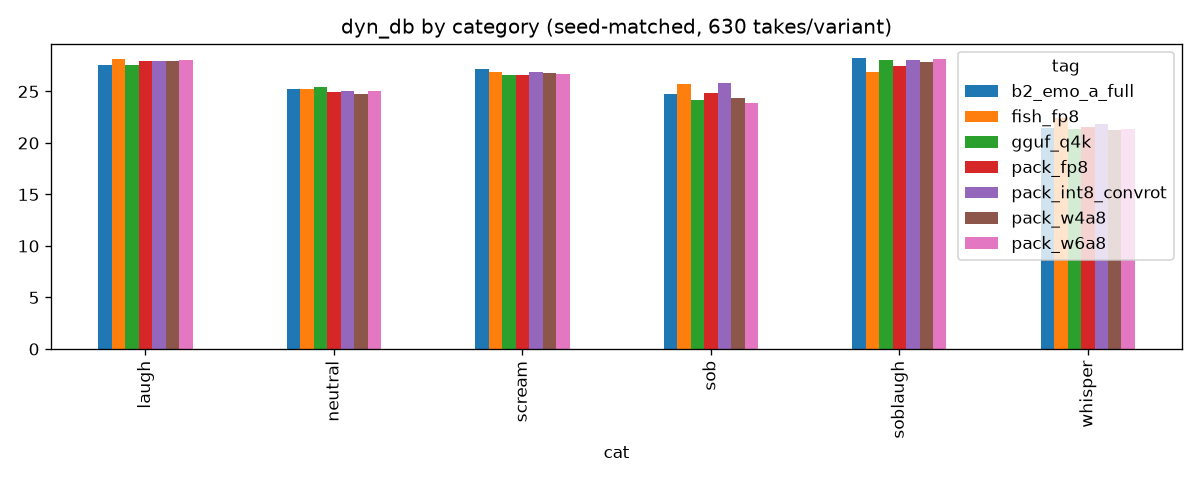
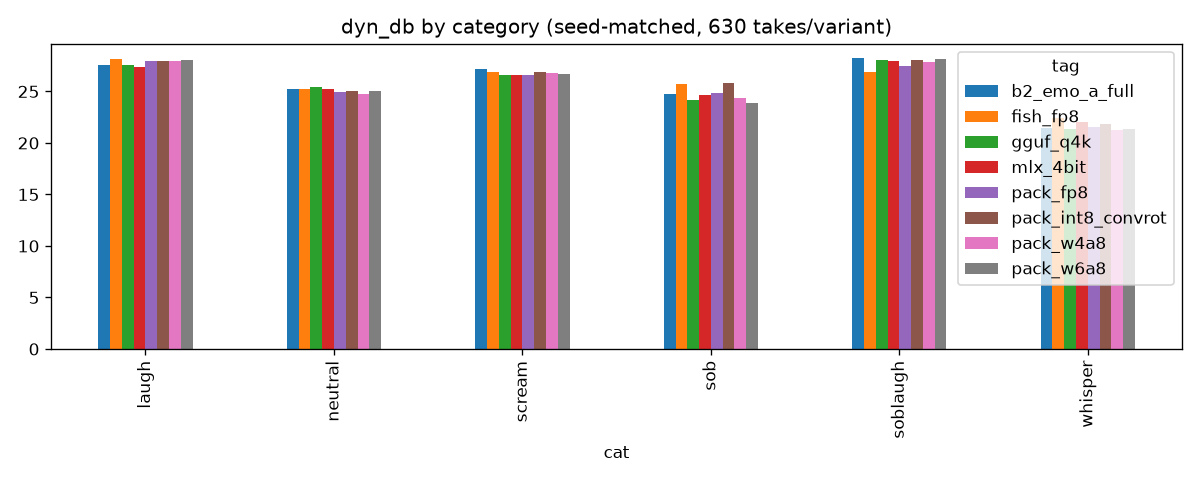
Add MLX 4-bit (Apple M5 Max) results row and refresh charts

diff --git a/README.md b/README.md
@@ -15,7 +15,9 @@ We benchmarked [Fish Audio Drama 3](https://huggingface.co/fishaudio/drama-3) ac
 | **Emo-W4 (ours, `b2/`)** | 24.8 | 0.031 | 0.039 | **0.143** | 0.533 | 0.118 | 0.92 |
 | fish-speech server FP8 | – | 0.039 | 0.049 | 0.167 | 0.518 | 0.112 | 0.43 |
 | audio.cpp GGUF Q4_K_S | – | 0.028 | 0.033 | 0.167 | 0.537 | 0.127 | 0.31 |
-<!--MLX_ROW-->
+| MLX 4-bit (mlx-audio, Apple M5 Max 128 GB)¹ | – | 0.031 | 0.044 | 0.155 | 0.535 | 0.132 | 2.03 |
+
+¹ Same 90 seed-matched items, generated on a MacBook (Apple M5 Max, 128 GB) with `scripts/gen_mlx.py`, scored on the same GPU eval stack. RTF = wall time / audio duration (mean 2.03, median 1.02; >1 means slower than real time); peak process RSS 22.5 GB; model load 7.9 s. 15/630 takes hit the max-length cap.
 
 **Notes**
 - RTF was measured on an RTX PRO 6000 Blackwell, which was shared with other jobs, so treat speed as indicative only.
